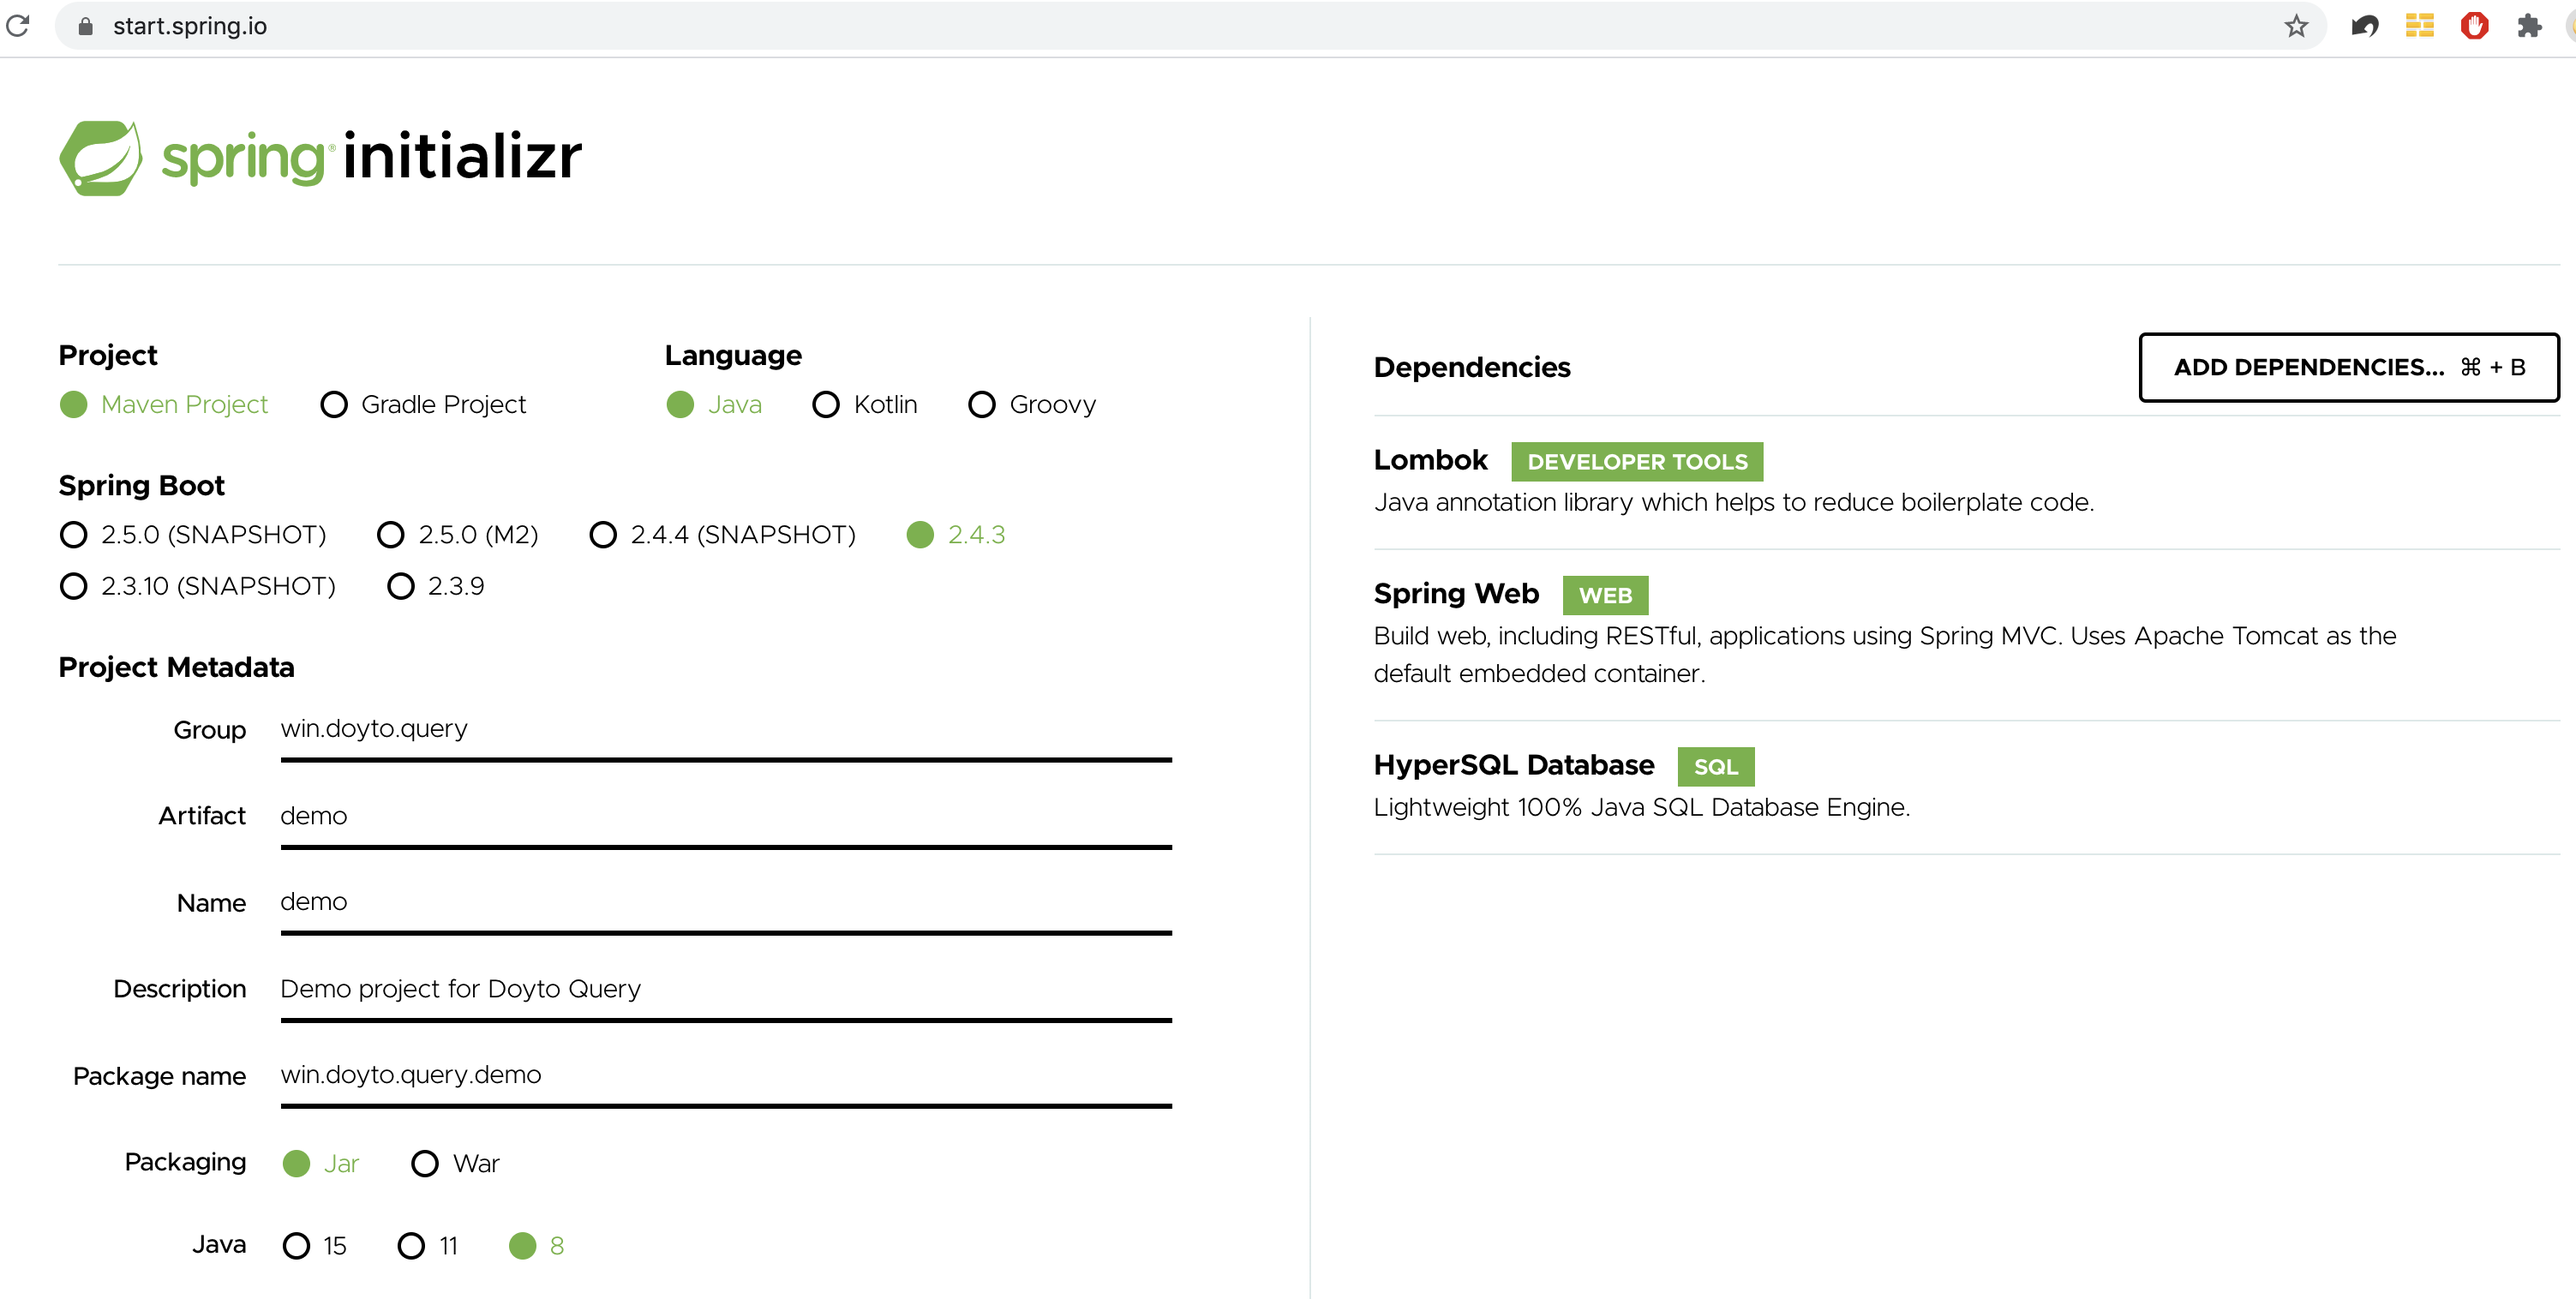
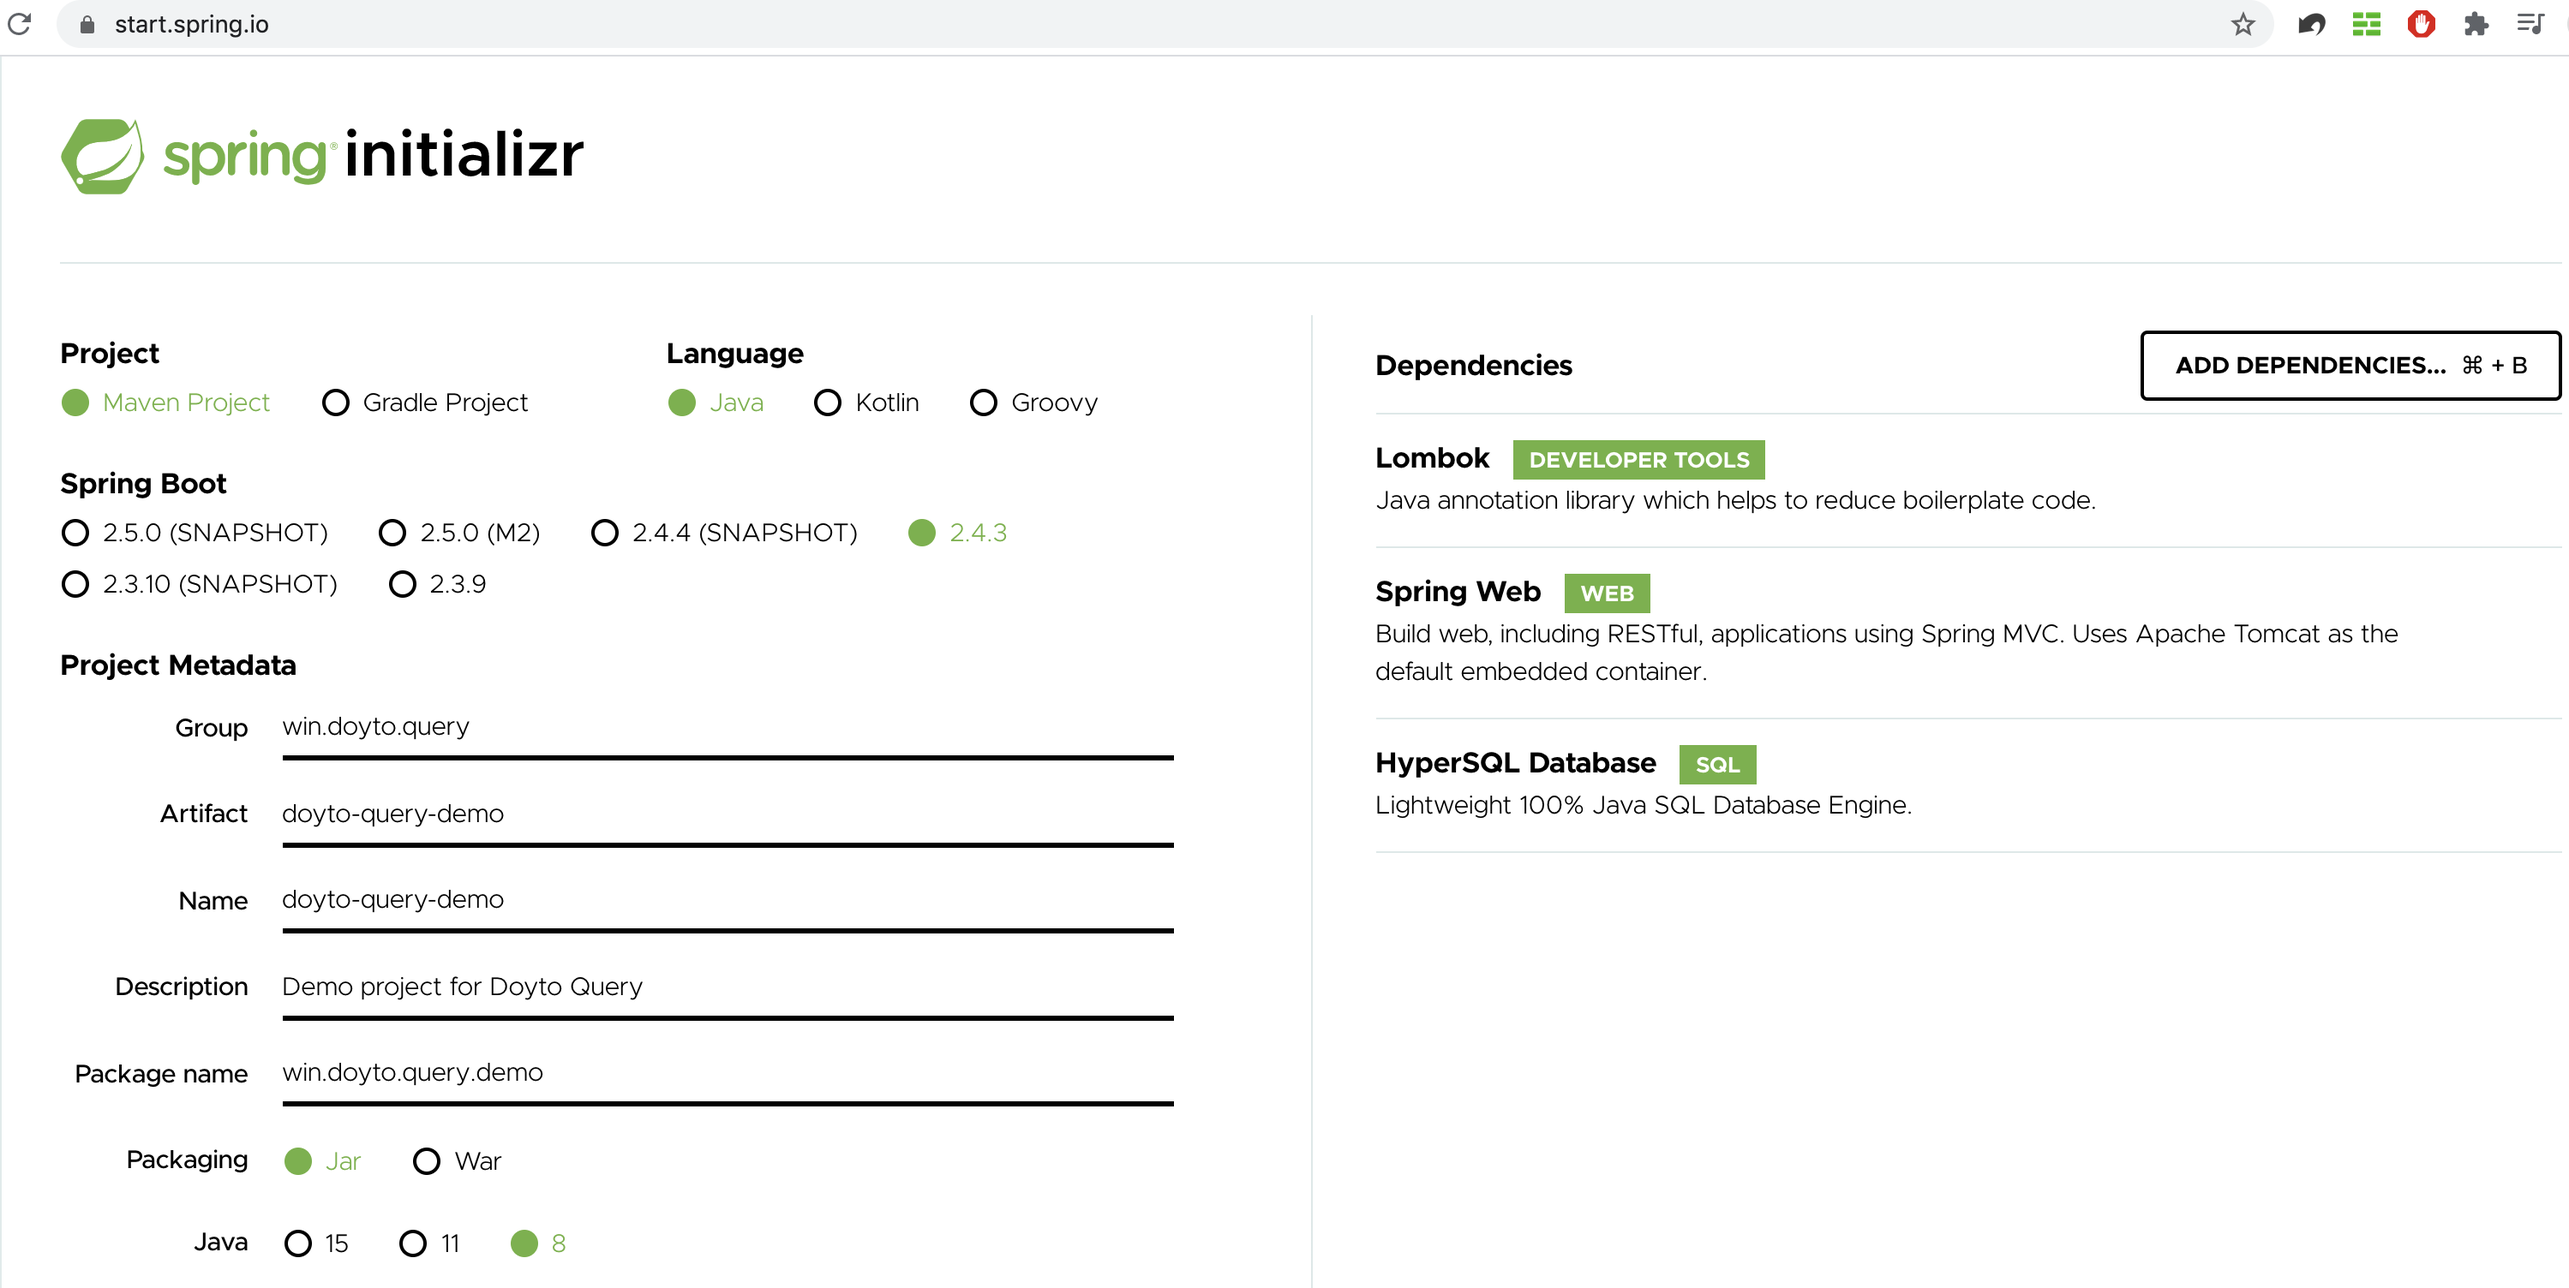
GitBook: [master] 19 pages and 2 assets modified

diff --git a/quick-start/10-minute-tutorials.md b/quick-start/10-minute-tutorials.md
@@ -1,0 +1,131 @@
+# 入门教程
+
+1. 介绍目标
+2. 开始项目
+   1. 初始化工程
+      1. 在[Spring Initializer](https://start.spring.io/)上
+      2. 引入依赖
+   2. 初始化数据
+   3. 配置分页插件
+   4. 创建业务类
+      1. MenuEntity
+      2. MenuQuery
+      3. MenuController
+   5. 启动工程进行验证
+   6. 添加query字段
+      1. menuNameLike
+      2. MenuQuery
+3. 总结展望
+
+## 背景介绍
+
+## 开始项目
+
+### 初始化工程
+
+#### 1.在[Spring Initializer](https://start.spring.io/)上初始化工程  
+
+![&#x521D;&#x59CB;&#x5316;&#x5DE5;&#x7A0B;](../.gitbook/assets/image%20%281%29.png)
+
+#### 2.引入依赖 
+
+```text
+<dependency>
+    <groupId>win.doyto</groupId>
+    <artifactId>doyto-query-web</artifactId>
+    <version>0.2.1-RELEASE</version>
+</dependency>
+```
+
+### 初始化数据 
+
+### 配置分页插件 
+
+### 
+
+
+
+#### 配置分页插件
+
+* HsqldbDialect.java
+
+```java
+public class HsqldbDialect implements Dialect {
+    @Override
+    public String buildPageSql(String sql, int limit, long offset) {
+        return sql + " LIMIT " + limit + (sql.startsWith("SELECT") ? " OFFSET " + offset : "");
+    }
+}
+```
+
+配置使用
+
+```text
+doyto:
+  query:
+    config:
+      dialect: win.doyto.query.demo.common.HsqldbDialect
+      map-camel-case-to-underscore: true
+```
+
+
+
+### 创建业务类
+
+* MenuEntity.java
+
+{% code title="" %}
+```java
+@Getter
+@Setter
+@Entity
+@Table(name = "t_menu")
+public class MenuEntity extends CommonEntity<Integer, Long> {
+
+    private Integer parentId;
+
+    private String menuName;
+
+    private String memo;
+
+    private Boolean valid;
+
+}
+```
+{% endcode %}
+
+* MenuQuery.java
+
+```java
+@Getter
+@Setter
+@SuperBuilder
+@NoArgsConstructor
+@AllArgsConstructor
+public class MenuQuery extends PageQuery {
+
+}
+```
+
+* MenuController.java
+
+```java
+@RestController
+@RequestMapping("menu")
+public class MenuController extends AbstractIQEEController<MenuEntity, Long, MenuQuery> {
+}
+
+```
+
+### 启动工程进行验证 
+
+### 添加query字段 
+
+#### menuNameLike 
+
+#### MenuQuery
+
+## 总结展望
+
+
+

diff --git a/SUMMARY.md b/SUMMARY.md
@@ -1,24 +1,25 @@
 # Table of contents
 
-* [DoytoQuery --- An OSM Framework in Java](README.md)
+* [DoytoQuery --- 一个Java实现的OSM框架](README.md)
 
 ## 快速入门 <a id="quick-start"></a>
 
-* [入门教程](quick-start/ru-men-jiao-cheng.md)
+* [入门教程](quick-start/10-minute-tutorials.md)
 
-## 核心对象
+---
 
-* [核心对象](he-xin-dui-xiang/he-xin-dui-xiang/README.md)
-  * [Entity](he-xin-dui-xiang/he-xin-dui-xiang/entity.md)
-  * [Query](he-xin-dui-xiang/he-xin-dui-xiang/query.md)
-  * [IdWrapper](he-xin-dui-xiang/he-xin-dui-xiang/idwrapper.md)
+* [核心对象](core-objects/README.md)
+  * [Entity](core-objects/entity.md)
+  * [Query](core-objects/query.md)
+  * [IdWrapper](core-objects/idwrapper.md)
 
 ## 技术手册 <a id="manual"></a>
 
-* [Query对象字段后缀](manual/query-dui-xiang-zi-duan-hou-zhui-1.md)
+* [Query对象字段映射](manual/query-object-field-mappings.md)
 * [Query对象字段注解](manual/query-dui-xiang-zi-duan-zhu-jie.md)
-* [数据库方言](manual/zi-duan-lei-xing.md)
-* [输出SQL日志](manual/shu-chu-sql-ri-zhi.md)
+* [数据库方言](manual/dialect.md)
+* [输出SQL日志](manual/print-sql-logs.md)
 * [中间表操作](manual/zhong-jian-biao-cao-zuo.md)
 * [连接表查询](manual/lian-jie-biao-cha-xun.md)
+* [二级缓存](manual/second-level-cache.md)
 

diff --git a/manual/dialect.md b/manual/dialect.md
@@ -1,0 +1,47 @@
+# 数据库方言
+
+win.doyto.query.core.Dialect
+
+Dialect接口为针对不同的数据库，提供了一个扩展接口Dialect，通过实现该接口对原始sql语句添加分页语法
+
+```java
+public interface Dialect {
+    String buildPageSql(String sql, int limit, long offset);
+    default String wrapLabel(String fieldName) {
+        return fieldName;
+    }
+}
+```
+
+#### HSQLDB数据库的一个参考实现
+
+```java
+public class HSQLDBDialect implements Dialect {
+    @Override
+    public String buildPageSql(String sql, int limit, long offset) {
+        return sql + " LIMIT " + limit + (sql.startsWith("SELECT") ? " OFFSET " + offset : "");
+    }
+}
+```
+
+### 配置分页
+
+#### 方式一：yml文件
+
+{% code title="application.yml" %}
+```yaml
+doyto:
+  query:
+    config:
+      dialect: win.doyto.query.demo.common.HsqldbDialect
+```
+{% endcode %}
+
+#### 方式二：静态方法
+
+```java
+GlobalConfiguration.instance().setDialect(new HSQLDBDialect())
+```
+
+
+

diff --git a/README.md b/README.md
@@ -1,4 +1,4 @@
-# DoytoQuery --- An OSM Framework in Java
+# DoytoQuery --- 一个Java实现的OSM框架
 
 [![License](https://img.shields.io/:license-apache-brightgreen.svg)](https://www.apache.org/licenses/LICENSE-2.0.html) [![Maven Central](https://maven-badges.herokuapp.com/maven-central/win.doyto/doyto-query/badge.svg)](https://maven-badges.herokuapp.com/maven-central/win.doyto/doyto-query/) [![Sonar Stats](https://sonarcloud.io/api/project_badges/measure?project=win.doyto%3Adoyto-query&metric=alert_status)](https://sonarcloud.io/dashboard?id=win.doyto%3Adoyto-query) [![Code Lines](https://sonarcloud.io/api/project_badges/measure?project=win.doyto%3Adoyto-query&metric=ncloc)](https://sonarcloud.io/component_measures?id=win.doyto%3Adoyto-query&metric=ncloc) [![Coverage Status](https://sonarcloud.io/api/project_badges/measure?project=win.doyto%3Adoyto-query&metric=coverage)](https://sonarcloud.io/component_measures?id=win.doyto%3Adoyto-query&metric=coverage)
 

diff --git a/manual/query-object-field-mappings.md b/manual/query-object-field-mappings.md
@@ -1,0 +1,24 @@
+# Query对象字段映射
+
+## 后缀使用
+
+* Not\("!="\)
+* NotLike\("NOT LIKE"\)
+* Start\("LIKE"\)
+* Like\("LIKE"\)
+* NotIn\("NOT IN"\)
+* In\("IN"\)
+* NotNull\("IS NOT NULL"\)
+* Null\("IS NULL"\)
+* Gt\("&gt;"\)
+* Ge\("&gt;="\)
+* Lt\("&lt;"\)
+* Le\("&lt;="\)
+* NONE\("="\)
+
+## 注解使用
+
+* @QueryTableAlias
+* @NestedQueries
+* @QueryField
+

diff --git a/manual/second-level-cache.md b/manual/second-level-cache.md
@@ -1,0 +1,2 @@
+# 二级缓存
+
